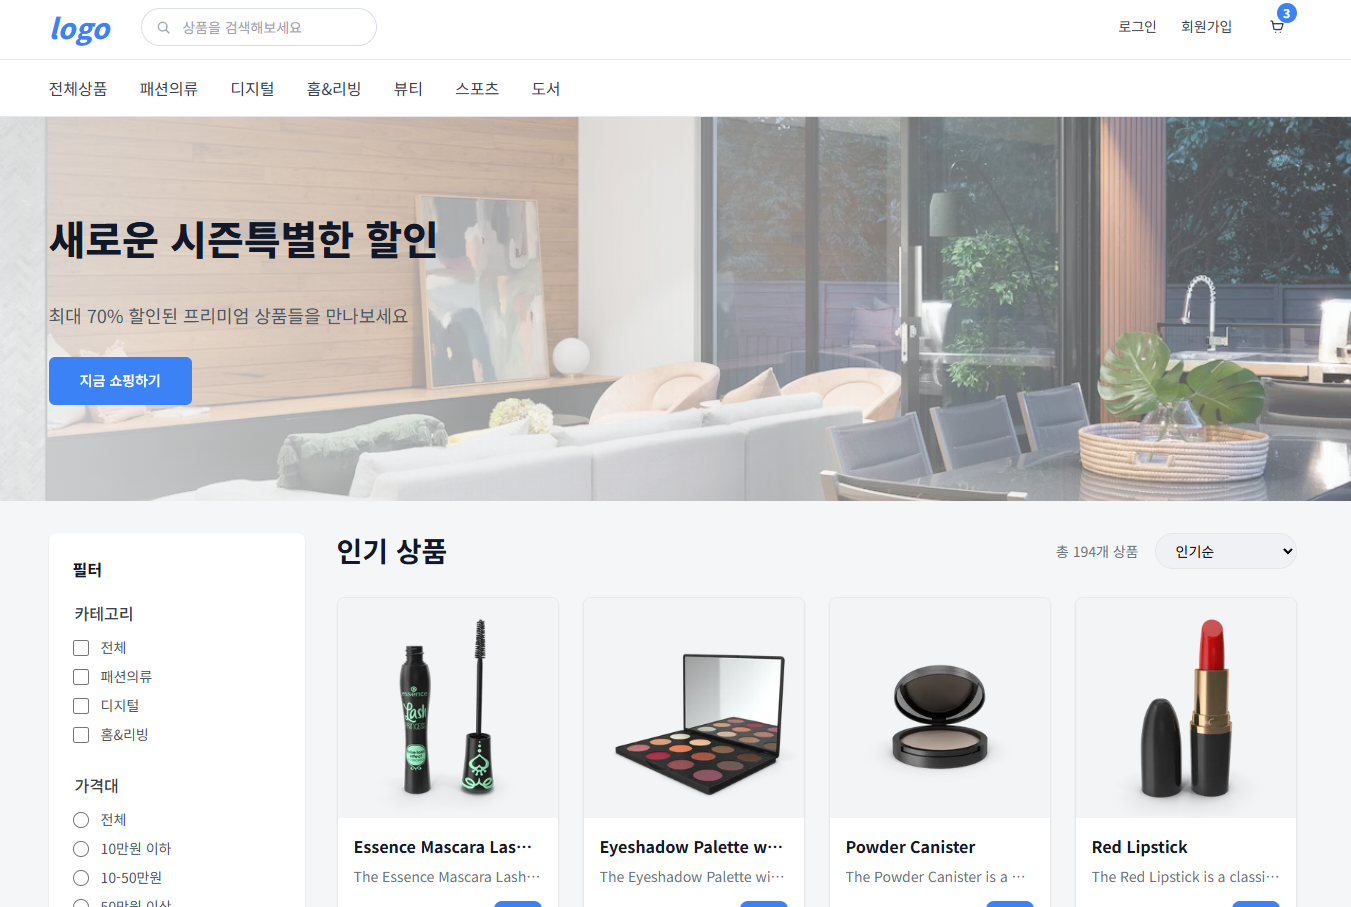
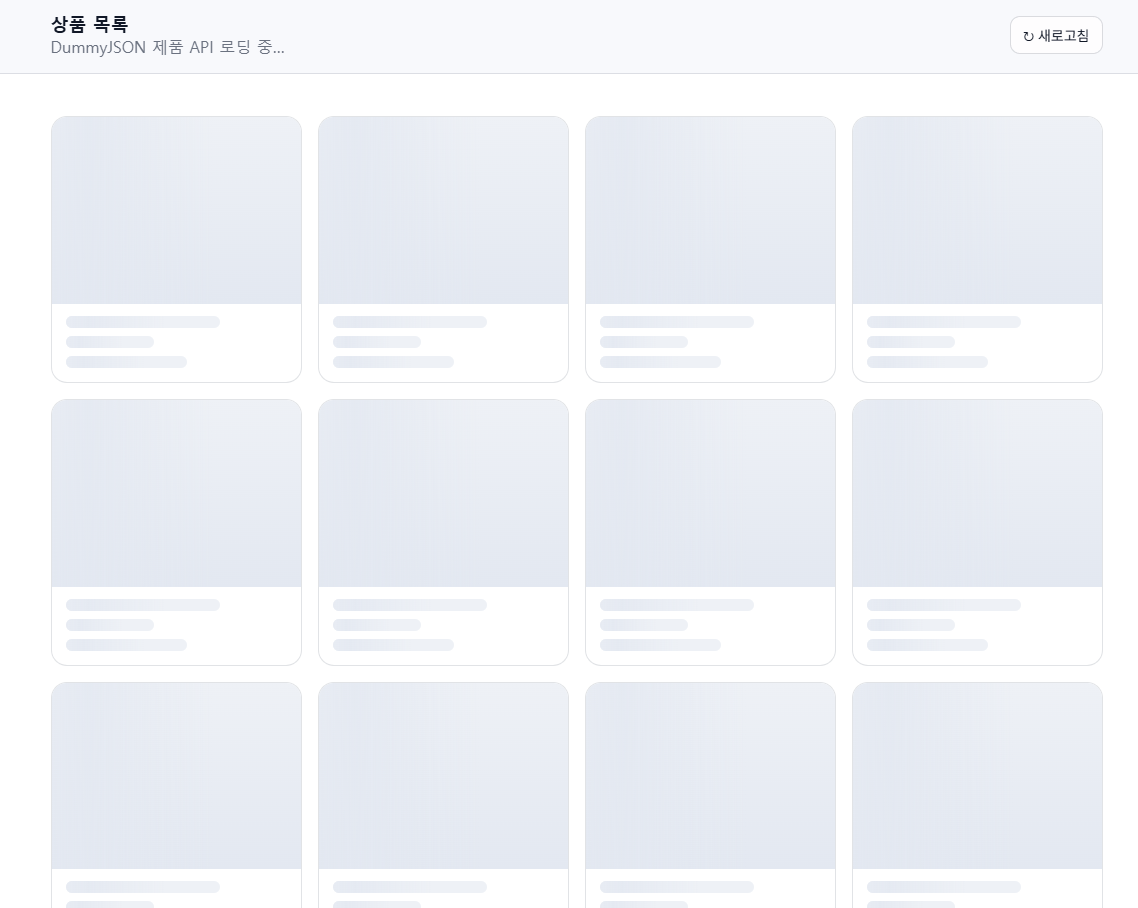
feat: 메인 사이트 깃허브 링크 추가

diff --git a/css/style.css b/css/style.css
@@ -72,8 +72,7 @@ a {
 abbr[title] {
   border-bottom: none; /* 1 */
   text-decoration: underline; /* 2 */
-  -webkit-text-decoration: underline dotted;
-          text-decoration: underline dotted; /* 2 */
+  text-decoration: underline dotted; /* 2 */
 }
 
 /**
@@ -636,9 +635,7 @@ input {
   padding: 2px 7px;
   border-radius: var(--radius-xs);
   letter-spacing: 0.02em;
-  -webkit-user-select: none;
-     -moz-user-select: none;
-          user-select: none;
+  user-select: none;
 }
 .project-card__thumbnail {
   width: 100%;
@@ -650,10 +647,8 @@ input {
 .project-card__thumbnail img {
   width: 100%;
   height: 100%;
-  -o-object-fit: contain;
-     object-fit: contain;
-  -o-object-position: top;
-     object-position: top;
+  object-fit: contain;
+  object-position: top;
   transition: transform 300ms ease;
 }
 .project-card:hover .project-card__thumbnail img {
@@ -749,6 +744,56 @@ input {
   pointer-events: none;
 }
 
+.site-header__actions {
+  position: absolute;
+  top: 48px;
+  right: 24px;
+  display: flex;
+  align-items: center;
+  gap: 8px;
+}
+
+.github-link,
+.site-header__actions .theme-toggle {
+  position: static;
+  display: inline-flex;
+  align-items: center;
+  justify-content: center;
+  height: 36px;
+  border-radius: var(--radius-xs);
+  border: 1px solid var(--color-border);
+  background-color: var(--color-surface);
+  color: var(--color-text-secondary);
+  transition: border-color 150ms ease, background-color 150ms ease, color 150ms ease;
+}
+.github-link:hover,
+.site-header__actions .theme-toggle:hover {
+  border-color: var(--color-accent);
+  color: var(--color-accent);
+}
+.github-link .material-icons,
+.site-header__actions .theme-toggle .material-icons {
+  font-size: 18px;
+  pointer-events: none;
+}
+
+.github-link {
+  gap: 6px;
+  padding: 0 12px;
+  font: var(--caption-m-tight);
+  font-size: var(--font-size-xs);
+}
+
+@media (max-width: 520px) {
+  .site-header {
+    padding: 40px 20px 28px;
+  }
+  .site-header__actions {
+    position: static;
+    justify-content: center;
+    margin-top: 16px;
+  }
+}
 body {
   font-family: var(--font-pretendard);
   background-color: var(--color-bg);
@@ -775,4 +820,6 @@ body {
   display: grid;
   grid-template-columns: repeat(auto-fill, minmax(280px, 1fr));
   gap: 24px;
-}/*# sourceMappingURL=style.css.map */
+}
+
+/*# sourceMappingURL=style.css.map */

diff --git a/css/layouts/_header.scss b/css/layouts/_header.scss
@@ -67,3 +67,58 @@
     pointer-events: none;
   }
 }
+
+.site-header__actions {
+  position: absolute;
+  top: 48px;
+  right: 24px;
+  display: flex;
+  align-items: center;
+  gap: 8px;
+}
+
+.github-link,
+.site-header__actions .theme-toggle {
+  position: static;
+  display: inline-flex;
+  align-items: center;
+  justify-content: center;
+  height: 36px;
+  border-radius: var(--radius-xs);
+  border: 1px solid var(--color-border);
+  background-color: var(--color-surface);
+  color: var(--color-text-secondary);
+  transition:
+    border-color 150ms ease,
+    background-color 150ms ease,
+    color 150ms ease;
+
+  &:hover {
+    border-color: var(--color-accent);
+    color: var(--color-accent);
+  }
+
+  .material-icons {
+    font-size: 18px;
+    pointer-events: none;
+  }
+}
+
+.github-link {
+  gap: 6px;
+  padding: 0 12px;
+  font: var(--caption-m-tight);
+  font-size: var(--font-size-xs);
+}
+
+@media (max-width: 520px) {
+  .site-header {
+    padding: 40px 20px 28px;
+  }
+
+  .site-header__actions {
+    position: static;
+    justify-content: center;
+    margin-top: 16px;
+  }
+}

diff --git a/index.html b/index.html
@@ -12,9 +12,21 @@
   <body>
     <header class="site-header">
       <h1>Raspbsb Portfolio</h1>
-      <button class="theme-toggle" aria-label="다크모드 전환">
-        <span class="material-icons">dark_mode</span>
-      </button>
+      <div class="site-header__actions">
+        <a
+          class="github-link"
+          href="https://github.com/raspbsb/raspbsb.github.io"
+          target="_blank"
+          rel="noopener noreferrer"
+          aria-label="GitHub 저장소 열기"
+        >
+          <span class="material-icons" aria-hidden="true">code</span>
+          <span>GitHub</span>
+        </a>
+        <button class="theme-toggle" aria-label="다크모드 전환">
+          <span class="material-icons">dark_mode</span>
+        </button>
+      </div>
     </header>
 
     <section class="project-section">
